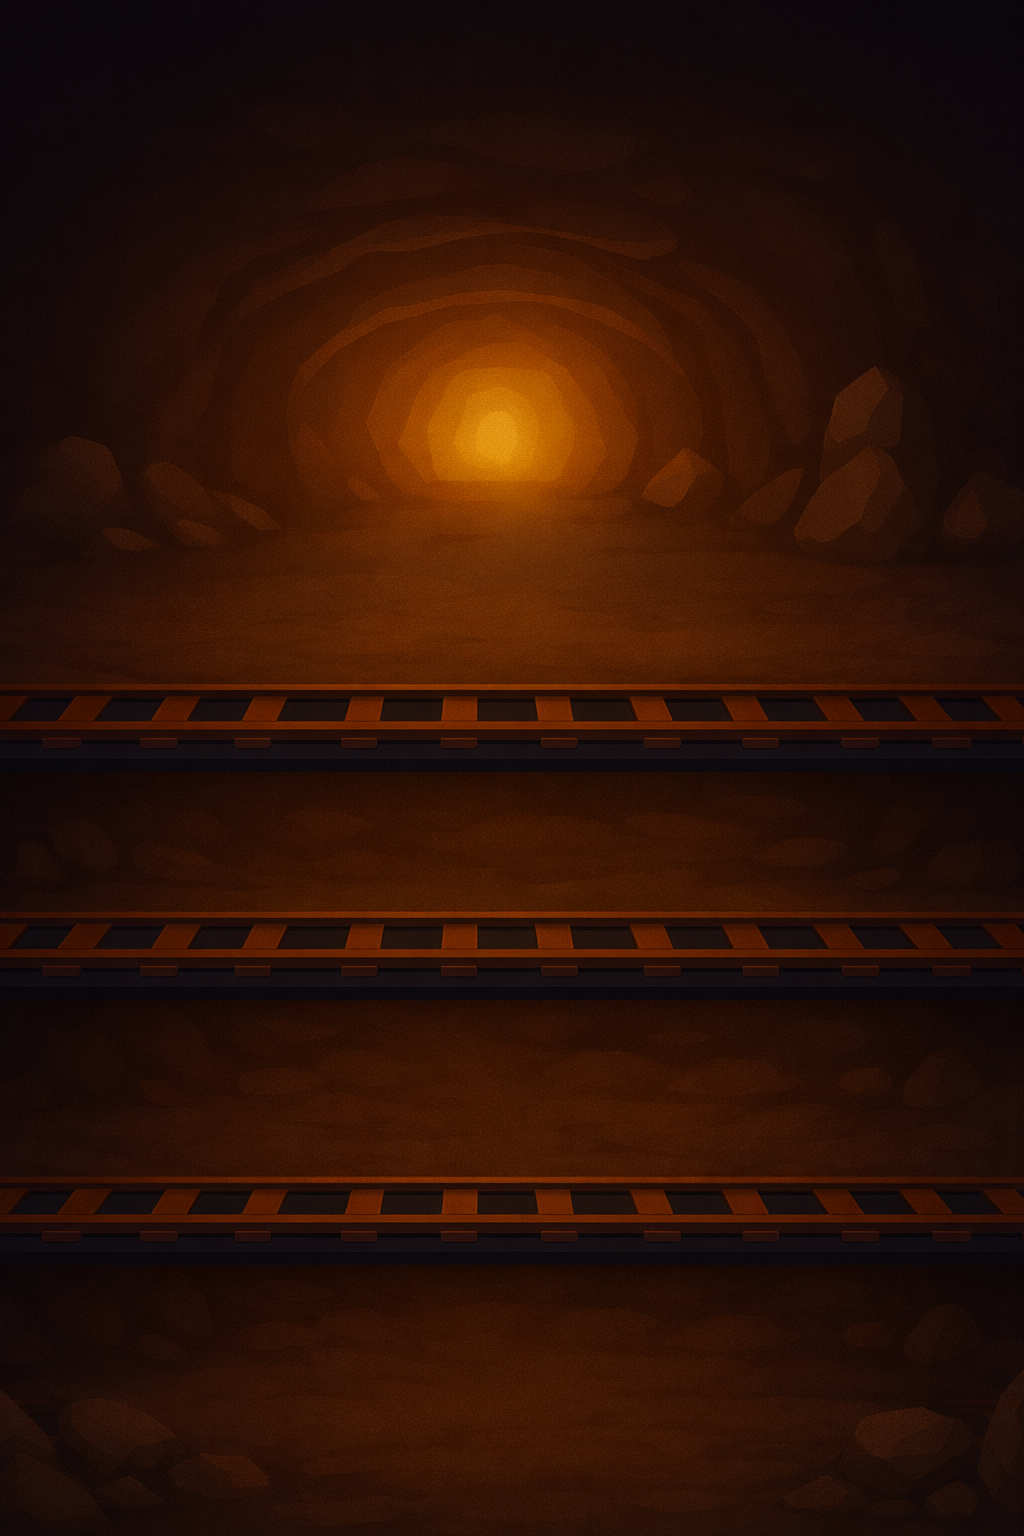
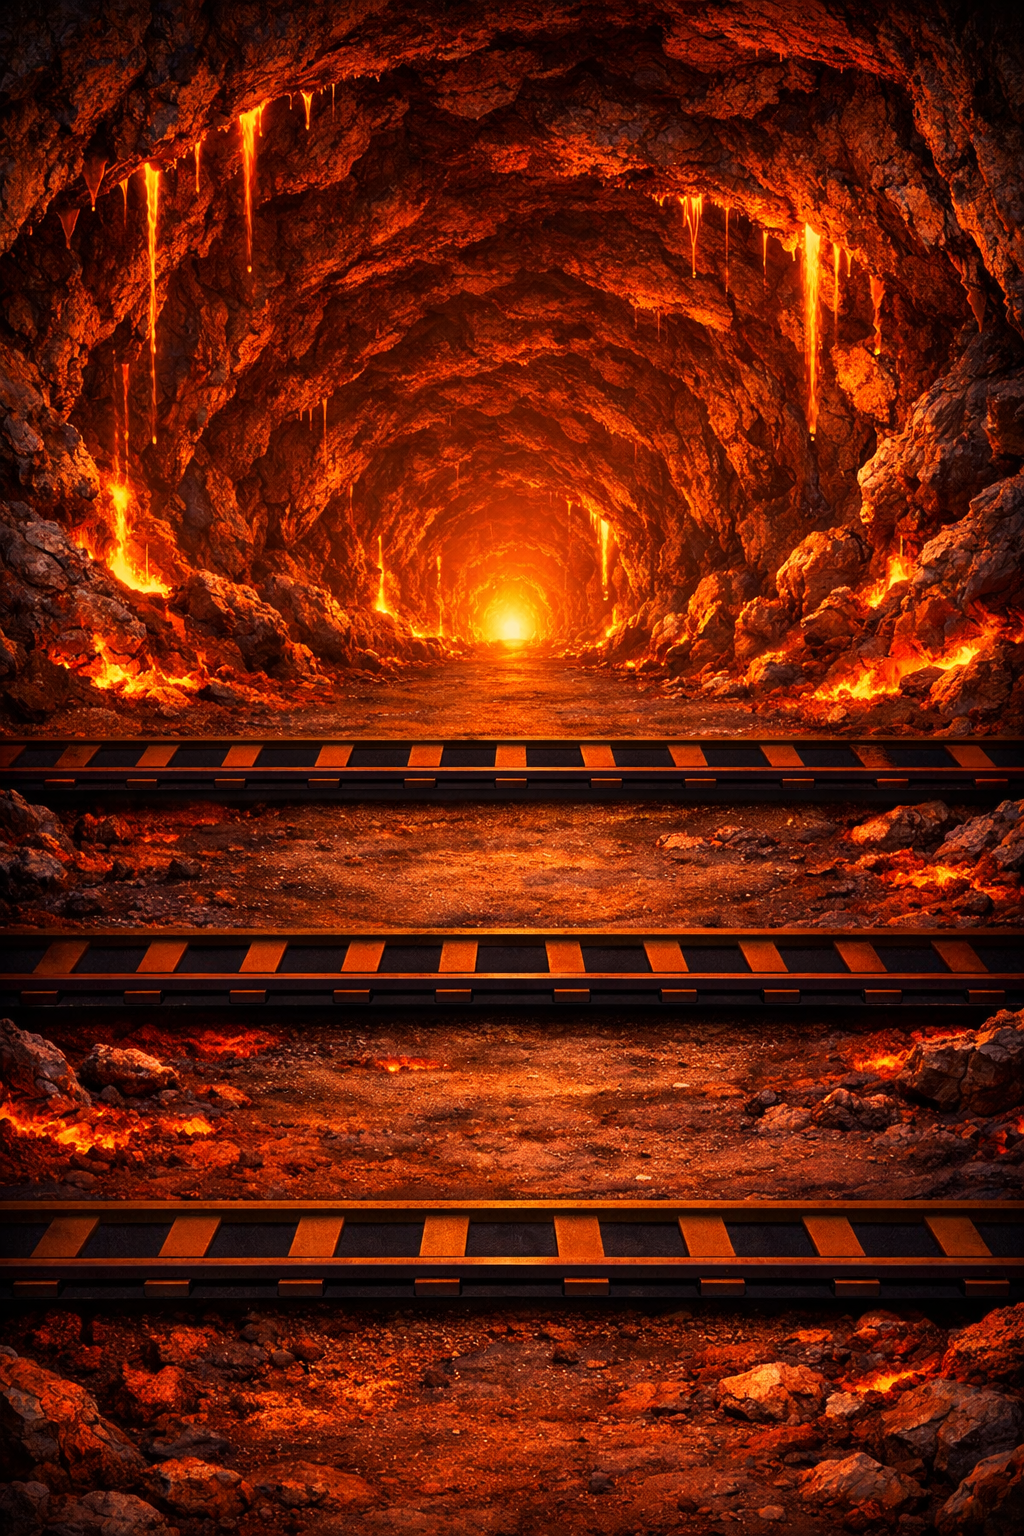
update 25/03/2026 23:59:27.31

diff --git a/game/mleo-miners.js b/game/mleo-miners.js
@@ -122,6 +122,15 @@ const ALLOW_TESTNET_WALLET_FLAG =
  function isLocalHost(){
    try { return DEBUG_HOSTS.includes(location.hostname); } catch { return false; }
  }
+/** Dev-only: persisted index 0 = default BG, 1–10 = /images/bg-caveN.png */
+ const DEV_BG_LS_KEY = "mleo_dev_bg_index";
+ function isDevBgPickerEnabled(){
+   try {
+     if (isLocalHost()) return true;
+     const v = (process.env.NEXT_PUBLIC_DEBUG_UI || "").toLowerCase();
+     return v === "true" || v === "1";
+   } catch { return false; }
+ }
  try {
    if (typeof window !== "undefined") {
      const z = localStorage.getItem("SPAWN_ICON_ZOOM");
@@ -689,6 +698,8 @@ const router = useRouter();
   const rafRef    = useRef(0);
   const dragRef   = useRef({ active:false });
   const stateRef  = useRef(null);
+  /** Dev background override; read in drawBg (ref so RAF loop always sees latest). */
+  const boardBgSrcRef = useRef(IMG_BG);
   const flagsRef = useRef({ isMobileLandscape: false, paused: true });
   const { openConnectModal } = useConnectModal();
   const { openAccountModal } = useAccountModal();
@@ -732,6 +743,8 @@ const { disconnect } = useDisconnect();
   const [showResetConfirm, setShowResetConfirm] = useState(false);
   const [mounted, setMounted] = useState(false);
   const [debugUI, setDebugUI] = useState(false); // ← קיים
+  /** 0 = default cave BG, 1–10 = bg-cave1 … bg-cave10 (dev picker only). */
+  const [devBgIndex, setDevBgIndex] = useState(0);
 
 // Wallet address copy feedback
   const [copiedAddr, setCopiedAddr] = useState(false);
@@ -908,6 +921,20 @@ const { disconnect } = useDisconnect();
     window.addEventListener("keydown", onKey);
     return () => window.removeEventListener("keydown", onKey);
   }, []);
+
+  useEffect(() => {
+    if (!mounted) return;
+    if (!isDevBgPickerEnabled()) return;
+    try {
+      const raw = localStorage.getItem(DEV_BG_LS_KEY);
+      if (raw == null || raw === "") return;
+      const n = parseInt(raw, 10);
+      if (!Number.isFinite(n) || n < 0 || n > 10) return;
+      setDevBgIndex(n);
+      boardBgSrcRef.current = n === 0 ? IMG_BG : `/images/bg-cave${n}.png`;
+      getImg(boardBgSrcRef.current);
+    } catch {}
+  }, [mounted]);
 
   // === [GAIN] state & helpers (קיים אצלך — לא שיניתי) ===
   const [showGainModal, setShowGainModal] = useState(false);
@@ -1894,7 +1921,8 @@ function pickMiner(x,y){
 
 // ----- ציור -----
 function drawBg(ctx,b){
-  const img = getImg(IMG_BG);
+  const src = boardBgSrcRef.current || IMG_BG;
+  const img = getImg(src);
   if (img.complete && img.naturalWidth>0) {
     const iw=img.naturalWidth, ih=img.naturalHeight;
     const ir=iw/ih, br=b.w/b.h;
@@ -3323,6 +3351,42 @@ const BTN_DIS  = "opacity-60 cursor-not-allowed";
     >
       RESET
     </button>
+  </div>
+)}
+
+{mounted && isDevBgPickerEnabled() && (
+  <div
+    className="absolute right-2 sm:right-3 z-[40] flex flex-col items-end gap-0.5"
+    style={{ bottom: "calc(env(safe-area-inset-bottom, 0px) + 8px)" }}
+  >
+    <span className="text-[9px] font-bold text-white/90 drop-shadow-md bg-black/45 px-1.5 py-0.5 rounded">
+      DEV BG
+    </span>
+    <select
+      aria-label="Dev background 1–10"
+      value={devBgIndex}
+      onChange={(e) => {
+        const n = parseInt(e.target.value, 10);
+        const next = Number.isFinite(n) && n >= 0 && n <= 10 ? n : 0;
+        setDevBgIndex(next);
+        const path = next === 0 ? IMG_BG : `/images/bg-cave${next}.png`;
+        boardBgSrcRef.current = path;
+        try {
+          localStorage.setItem(DEV_BG_LS_KEY, String(next));
+        } catch {}
+        try {
+          getImg(path);
+        } catch {}
+      }}
+      className="max-w-[120px] text-[11px] font-bold rounded-lg border border-slate-500 bg-slate-900/90 text-amber-200 px-2 py-1 shadow-md"
+    >
+      <option value={0}>Default (bg-cave)</option>
+      {[1, 2, 3, 4, 5, 6, 7, 8, 9, 10].map((i) => (
+        <option key={i} value={i}>
+          bg-cave{i}
+        </option>
+      ))}
+    </select>
   </div>
 )}
 

diff --git a/lib/minersEconomyClient.js b/lib/minersEconomyClient.js
@@ -1,4 +1,8 @@
-import { ensureArcadeDeviceCookie, ensureCsrfToken } from "./arcadeDeviceClient";
+import {
+  ensureArcadeDeviceCookie,
+  ensureCsrfToken,
+  clearCsrfTokenCache,
+} from "./arcadeDeviceClient";
 
 let flushTimer = null;
 let stageCounts = Object.create(null);
@@ -6,6 +10,8 @@ let offlineSeen = false;
 let inflightFlush = null;
 let onStateSync = null;
 let csrfTokenCache = null;
+/** Serialize miners POSTs so parallel calls cannot overwrite each other's CSRF cookie. */
+let apiFetchChain = Promise.resolve();
 const MAX_RETRY_ATTEMPTS = 3; // מקסימום ניסיונות retry
 
 // Multi-tab guard
@@ -106,23 +112,37 @@ if (typeof window !== "undefined") {
   }
 }
 
-async function apiFetch(path, body) {
+function apiFetch(path, body) {
+  const p = apiFetchChain.then(() => apiFetchImpl(path, body));
+  apiFetchChain = p.then(
+    () => {},
+    () => {}
+  );
+  return p;
+}
+
+async function apiFetchImpl(path, body) {
   const deviceInit = await ensureArcadeDeviceCookie();
   if (!deviceInit?.success) {
     const error = new Error(deviceInit?.message || "Device not initialized");
     error.status = deviceInit?.status || 0;
     throw error;
   }
-  let csrfToken = csrfTokenCache || await ensureCsrfToken();
+
+  // Fresh token every POST: cookie + header must match; parallel GET /api/csrf-token calls race otherwise.
+  csrfTokenCache = null;
+  clearCsrfTokenCache();
+  let csrfToken = await ensureCsrfToken(true);
   if (!csrfToken) {
-    csrfToken = await ensureCsrfToken();
+    const err = new Error("Failed to obtain CSRF token");
+    err.status = 0;
+    throw err;
   }
   csrfTokenCache = csrfToken;
-  
+
   const headers = { "Content-Type": "application/json" };
-  if (csrfToken) {
-    headers["x-csrf-token"] = csrfToken;
-  }
+  headers["x-csrf-token"] = csrfToken;
+
   const response = await fetch(path, {
     method: "POST",
     headers,
@@ -130,12 +150,16 @@ async function apiFetch(path, body) {
     body: JSON.stringify(body || {}),
   });
   const payload = await response.json().catch(() => ({}));
-  
-  // If CSRF token is invalid, refresh it and retry once
-  if (response.status === 403 && payload?.message?.includes("CSRF")) {
+
+  const isCsrf403 =
+    response.status === 403 &&
+    (payload?.code === "CSRF_INVALID" ||
+      /csrf/i.test(String(payload?.message || "")));
+  if (isCsrf403) {
     csrfTokenCache = null;
-    const newToken = await ensureCsrfToken();
-    if (newToken && newToken !== csrfToken) {
+    clearCsrfTokenCache();
+    const newToken = await ensureCsrfToken(true);
+    if (newToken) {
       csrfTokenCache = newToken;
       headers["x-csrf-token"] = newToken;
       const retryResponse = await fetch(path, {
@@ -153,7 +177,7 @@ async function apiFetch(path, body) {
       return retryPayload;
     }
   }
-  
+
   if (!response.ok) {
     const error = new Error(payload?.message || "Miners API request failed");
     error.status = response.status;
